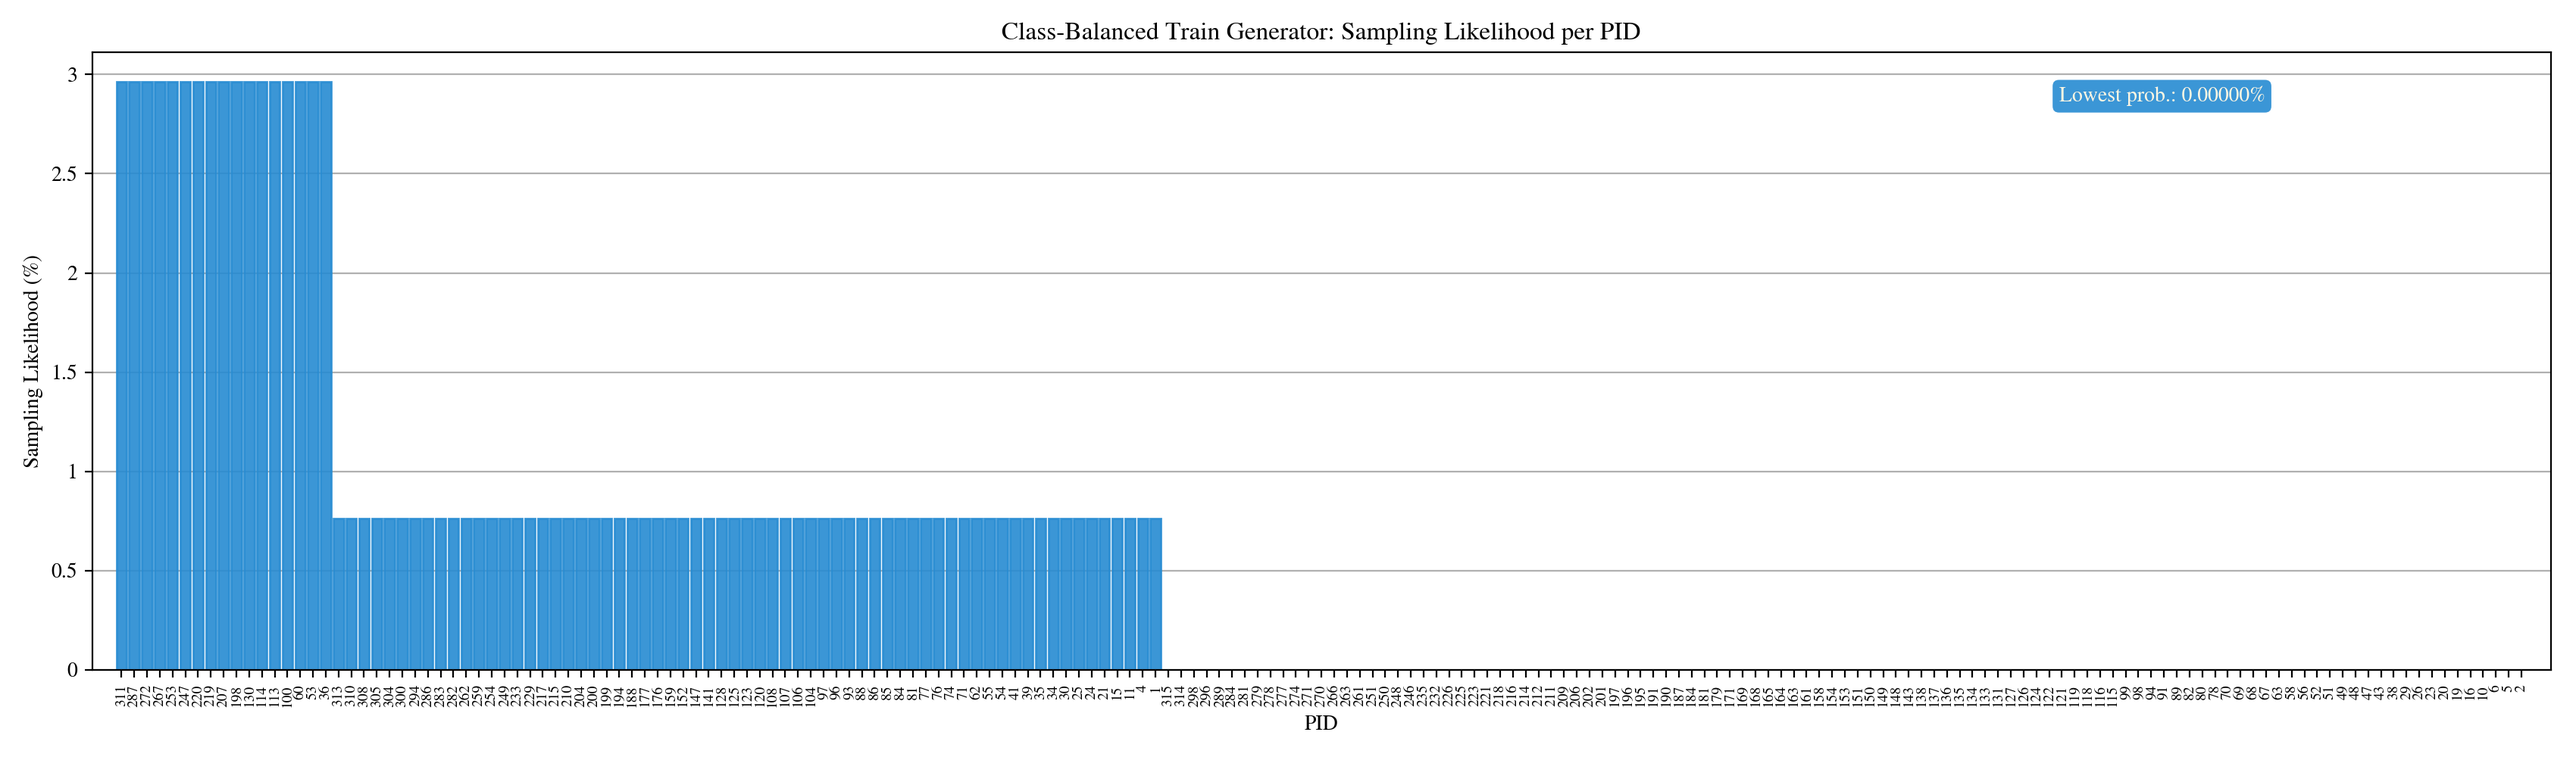
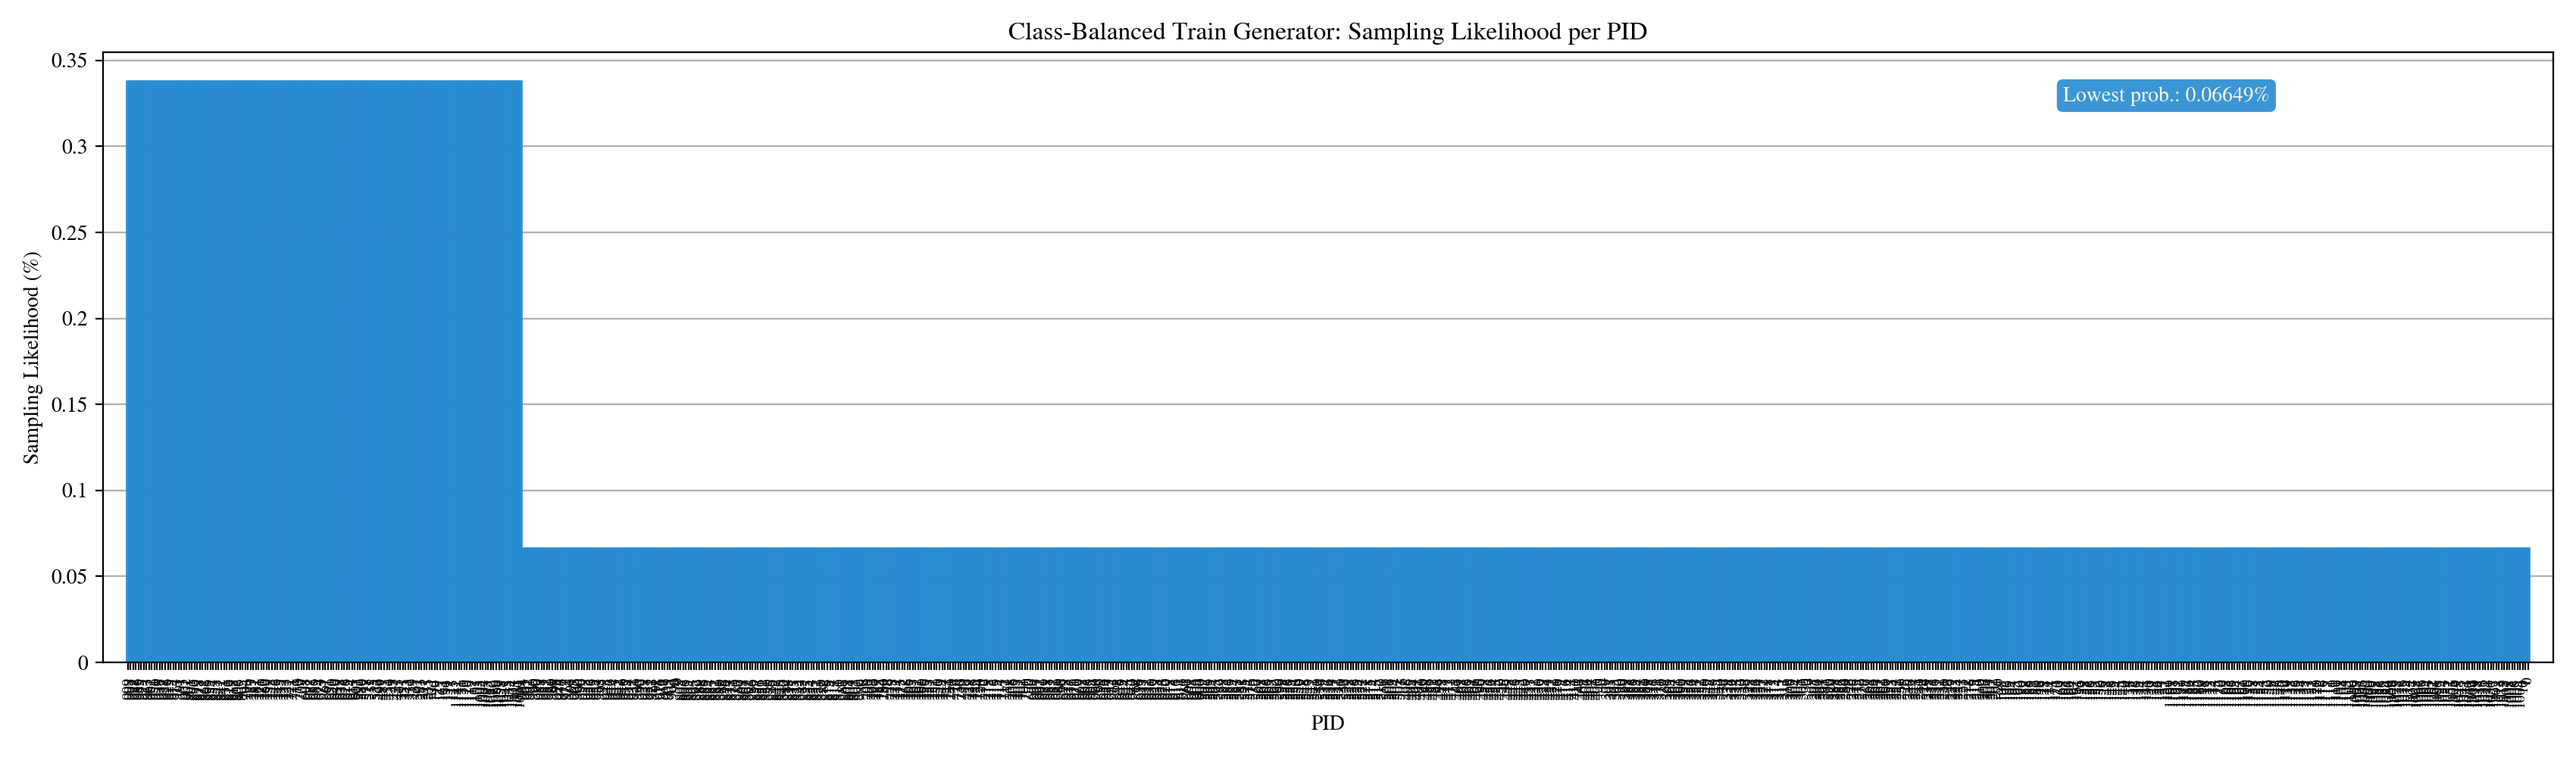
update batch sampling description

diff --git a/README.md b/README.md
@@ -161,7 +161,11 @@ The data loaders of the provided example data sets employ a custom mechanism wit
 
 The mechanism creates a sampling-likelihood distribution, as shown below, over all available patients (PIDs). At batch generation, some patients are drawn according to this distribution, others are drawn completely randomly (according to a uniform distribution across all patients). The ratio of uniformly and target-dependently drawn patients is set in your configs file by configs.batch_random_ratio. configs.balance_target determines which targets are considered for the balancing distribution.
 
-While the balancing distribution assigns probability 0 to empty patients (contains no object of desired target kind), the random ratio allows for inclusion of those empty patients in the training exposure. Experience has shown, that showing at least one foreground example in each batch is most critical, other properties have less impact.
+The balancing distribution assigns probabilities s.t. expected occurrences of fg and bg RoIs among all classes are as similar as possible.
+The balance is naturally limited by multiple RoIs occurring in the same patient (e.g, if each patient has 4 RoIs of class 1 and 1 RoI of class 2 the best balancing ratio achievable is still 4:1).
+See utils/dataloader_utils.BatchGenerator.balance_target_distribution.
+
+Experience has shown, that showing at least one foreground example in each batch is most critical, other properties have less impact.
 
 <p align="center"><img src="assets/train_gen.png"  width=800><br><br></p>
 
